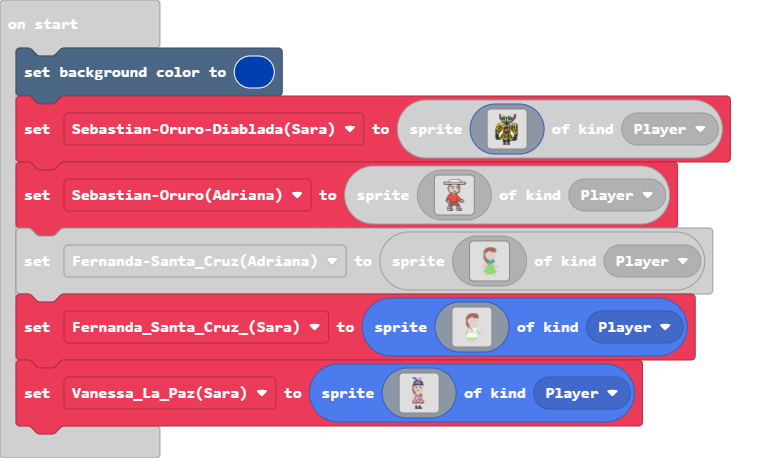
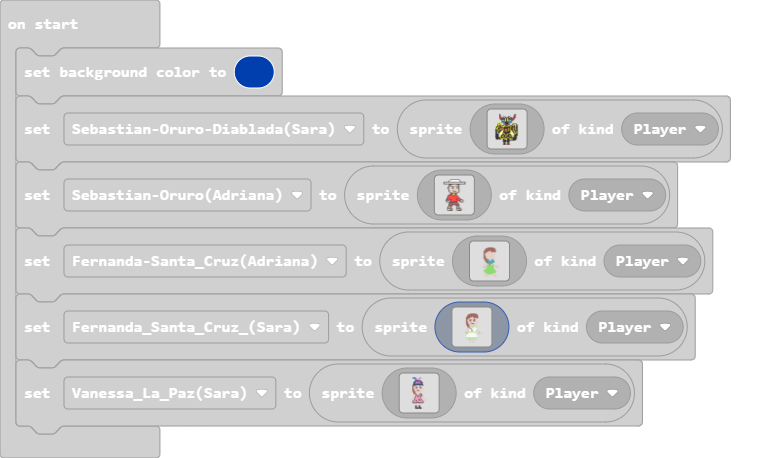
Update main.blocks, main.ts

diff --git a/main.ts b/main.ts
@@ -185,13 +185,13 @@ let Fernanda_Santa_Cruz_Sara = sprites.create(img`
     ..........eeeeeeeddddddeeddeee.........
     ..........eeeedddddddddeddddd..........
     ..........eeeeddddddddddddddd..........
-    ..........eeddddddddddddddddd..........
-    ..........eeddddddddddddddddd..........
+    ..........eeddddfffdddfffdddd..........
+    ..........eeddddee1dddee1dddd..........
+    ..........eeedddeeedddeeedddd..........
     ..........eeedddddddddddddddd..........
     ..........eeedddddddddddddddd..........
-    ..........eeedddddddddddddddd..........
-    ..........eeeeddddddddddddddd..........
-    ..........eeeedddddddddddddd...........
+    ..........eeeeddddfdddddddddd..........
+    ..........eeeedddddffffddddd...........
     ..........eeeedddddddddddddd...........
     ...........eeeeedddddddddd.............
     ...........eeeeeddddddd777.............
